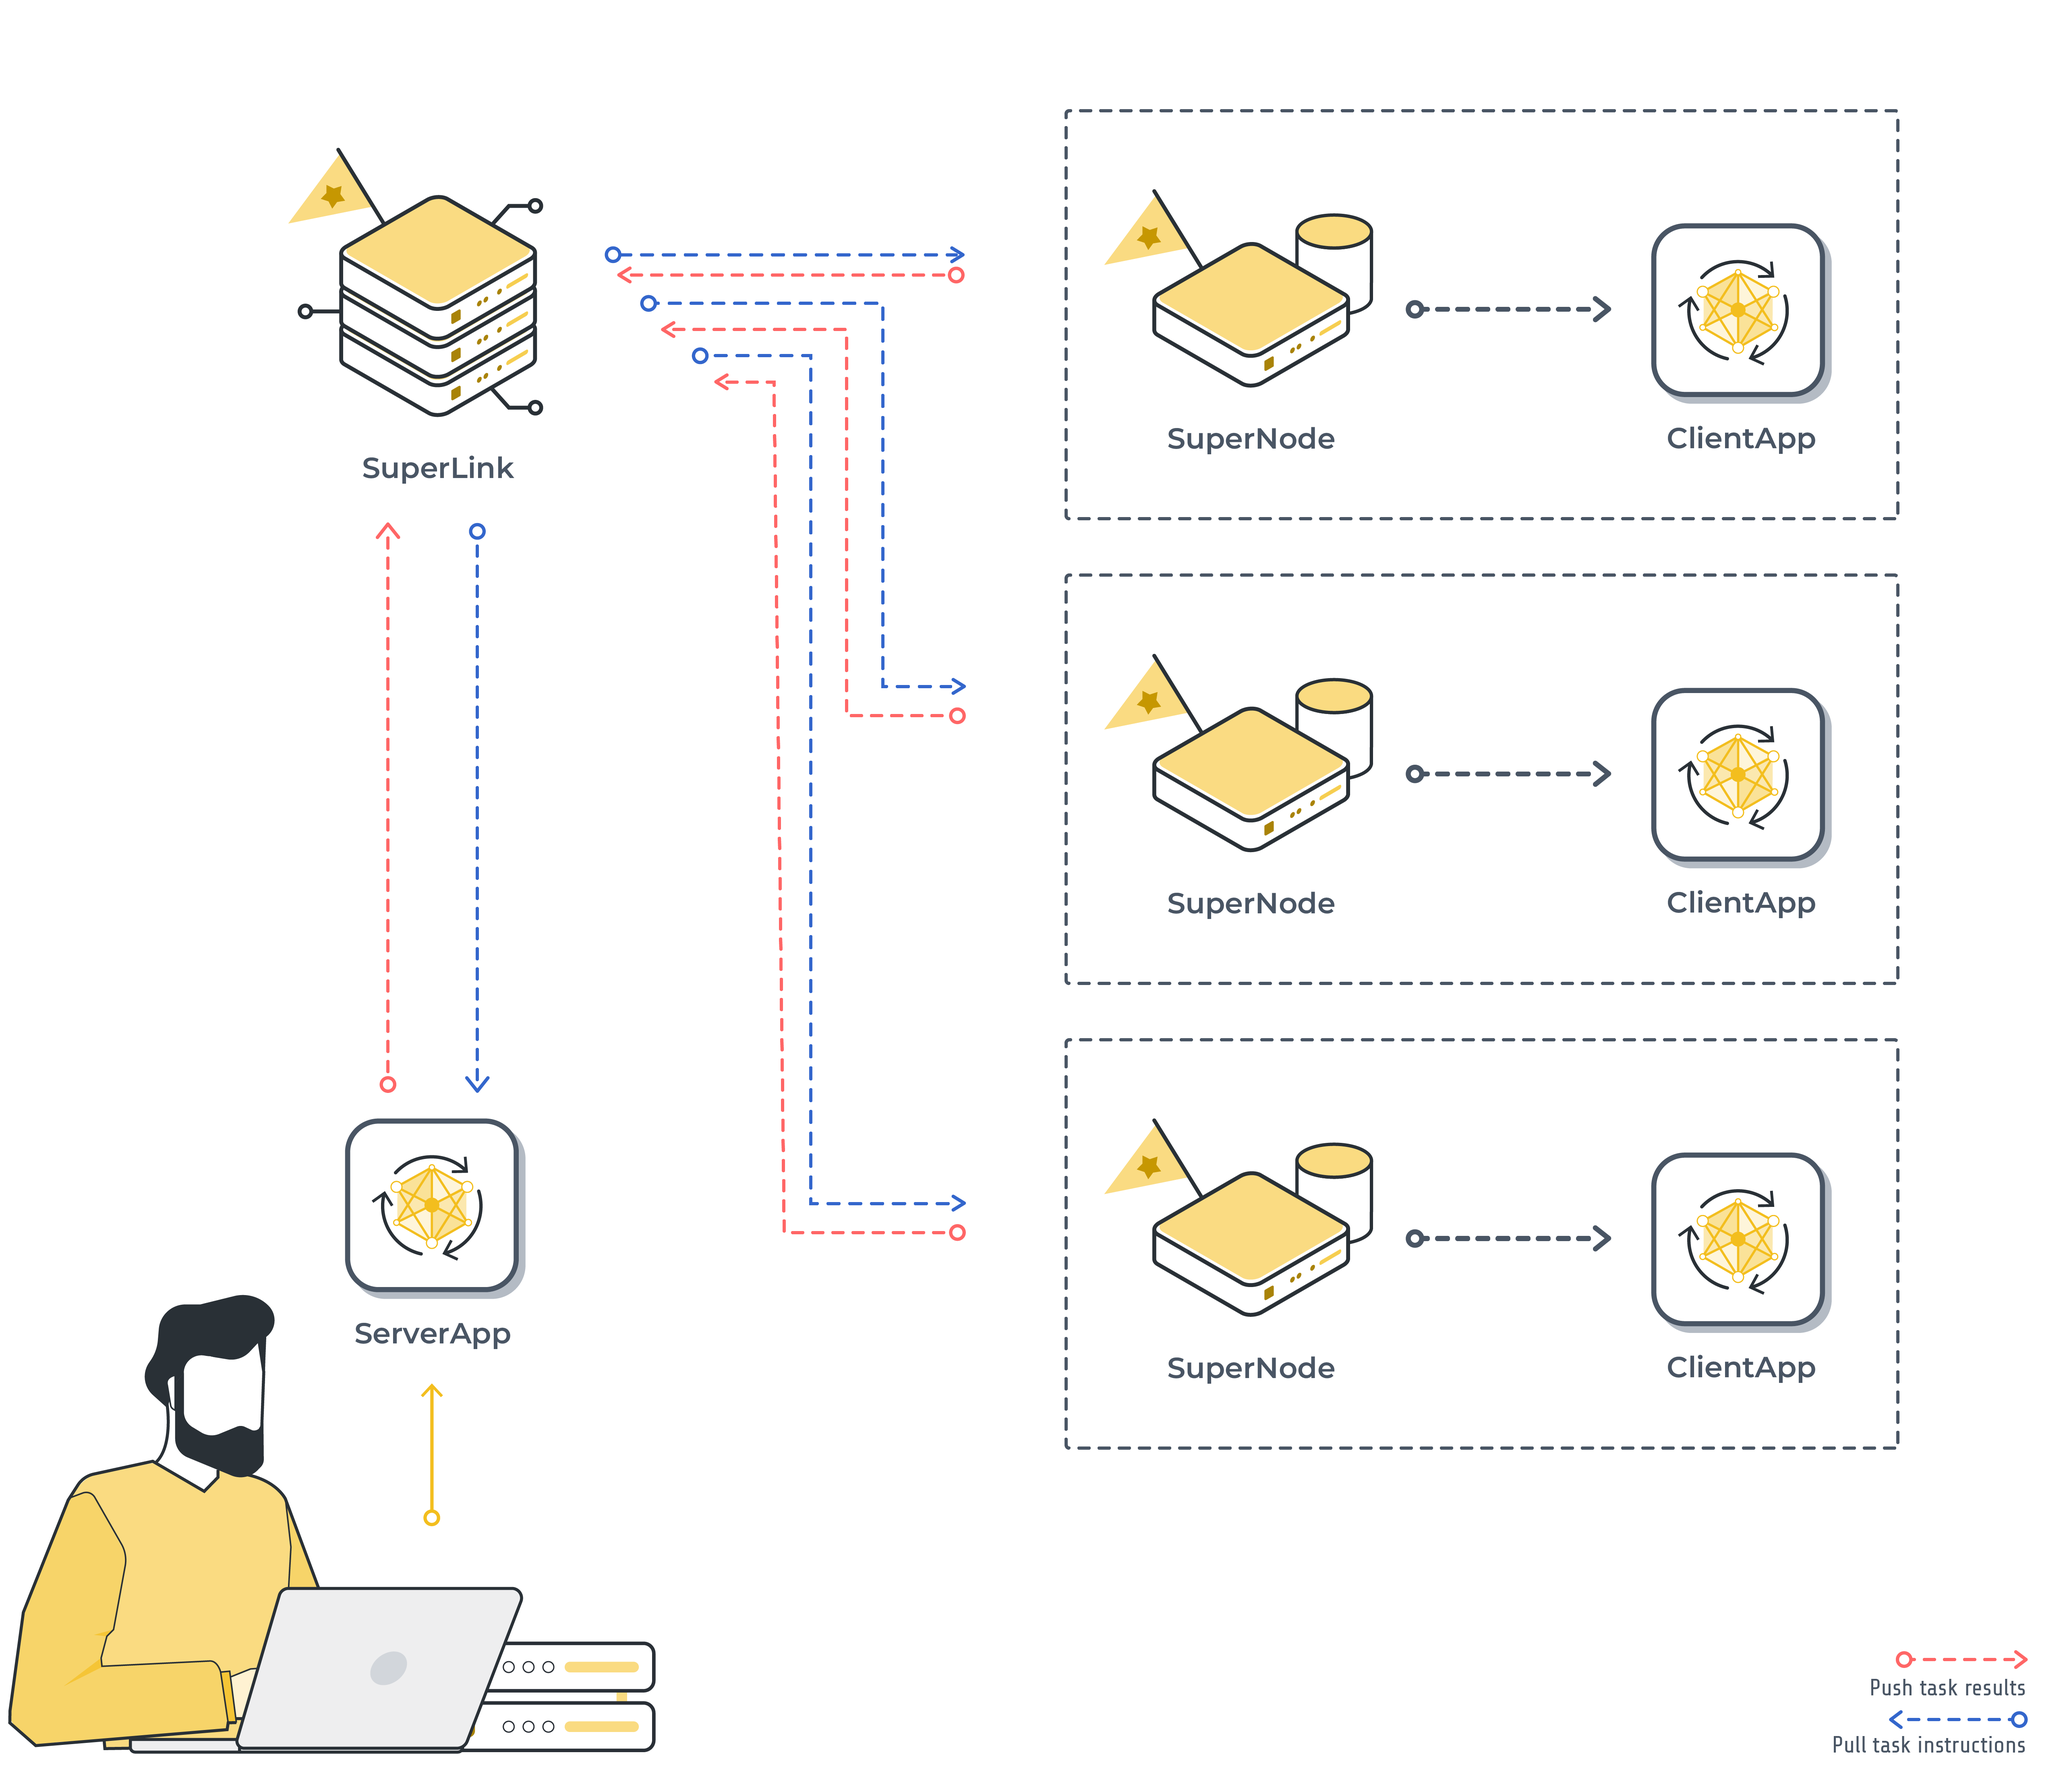
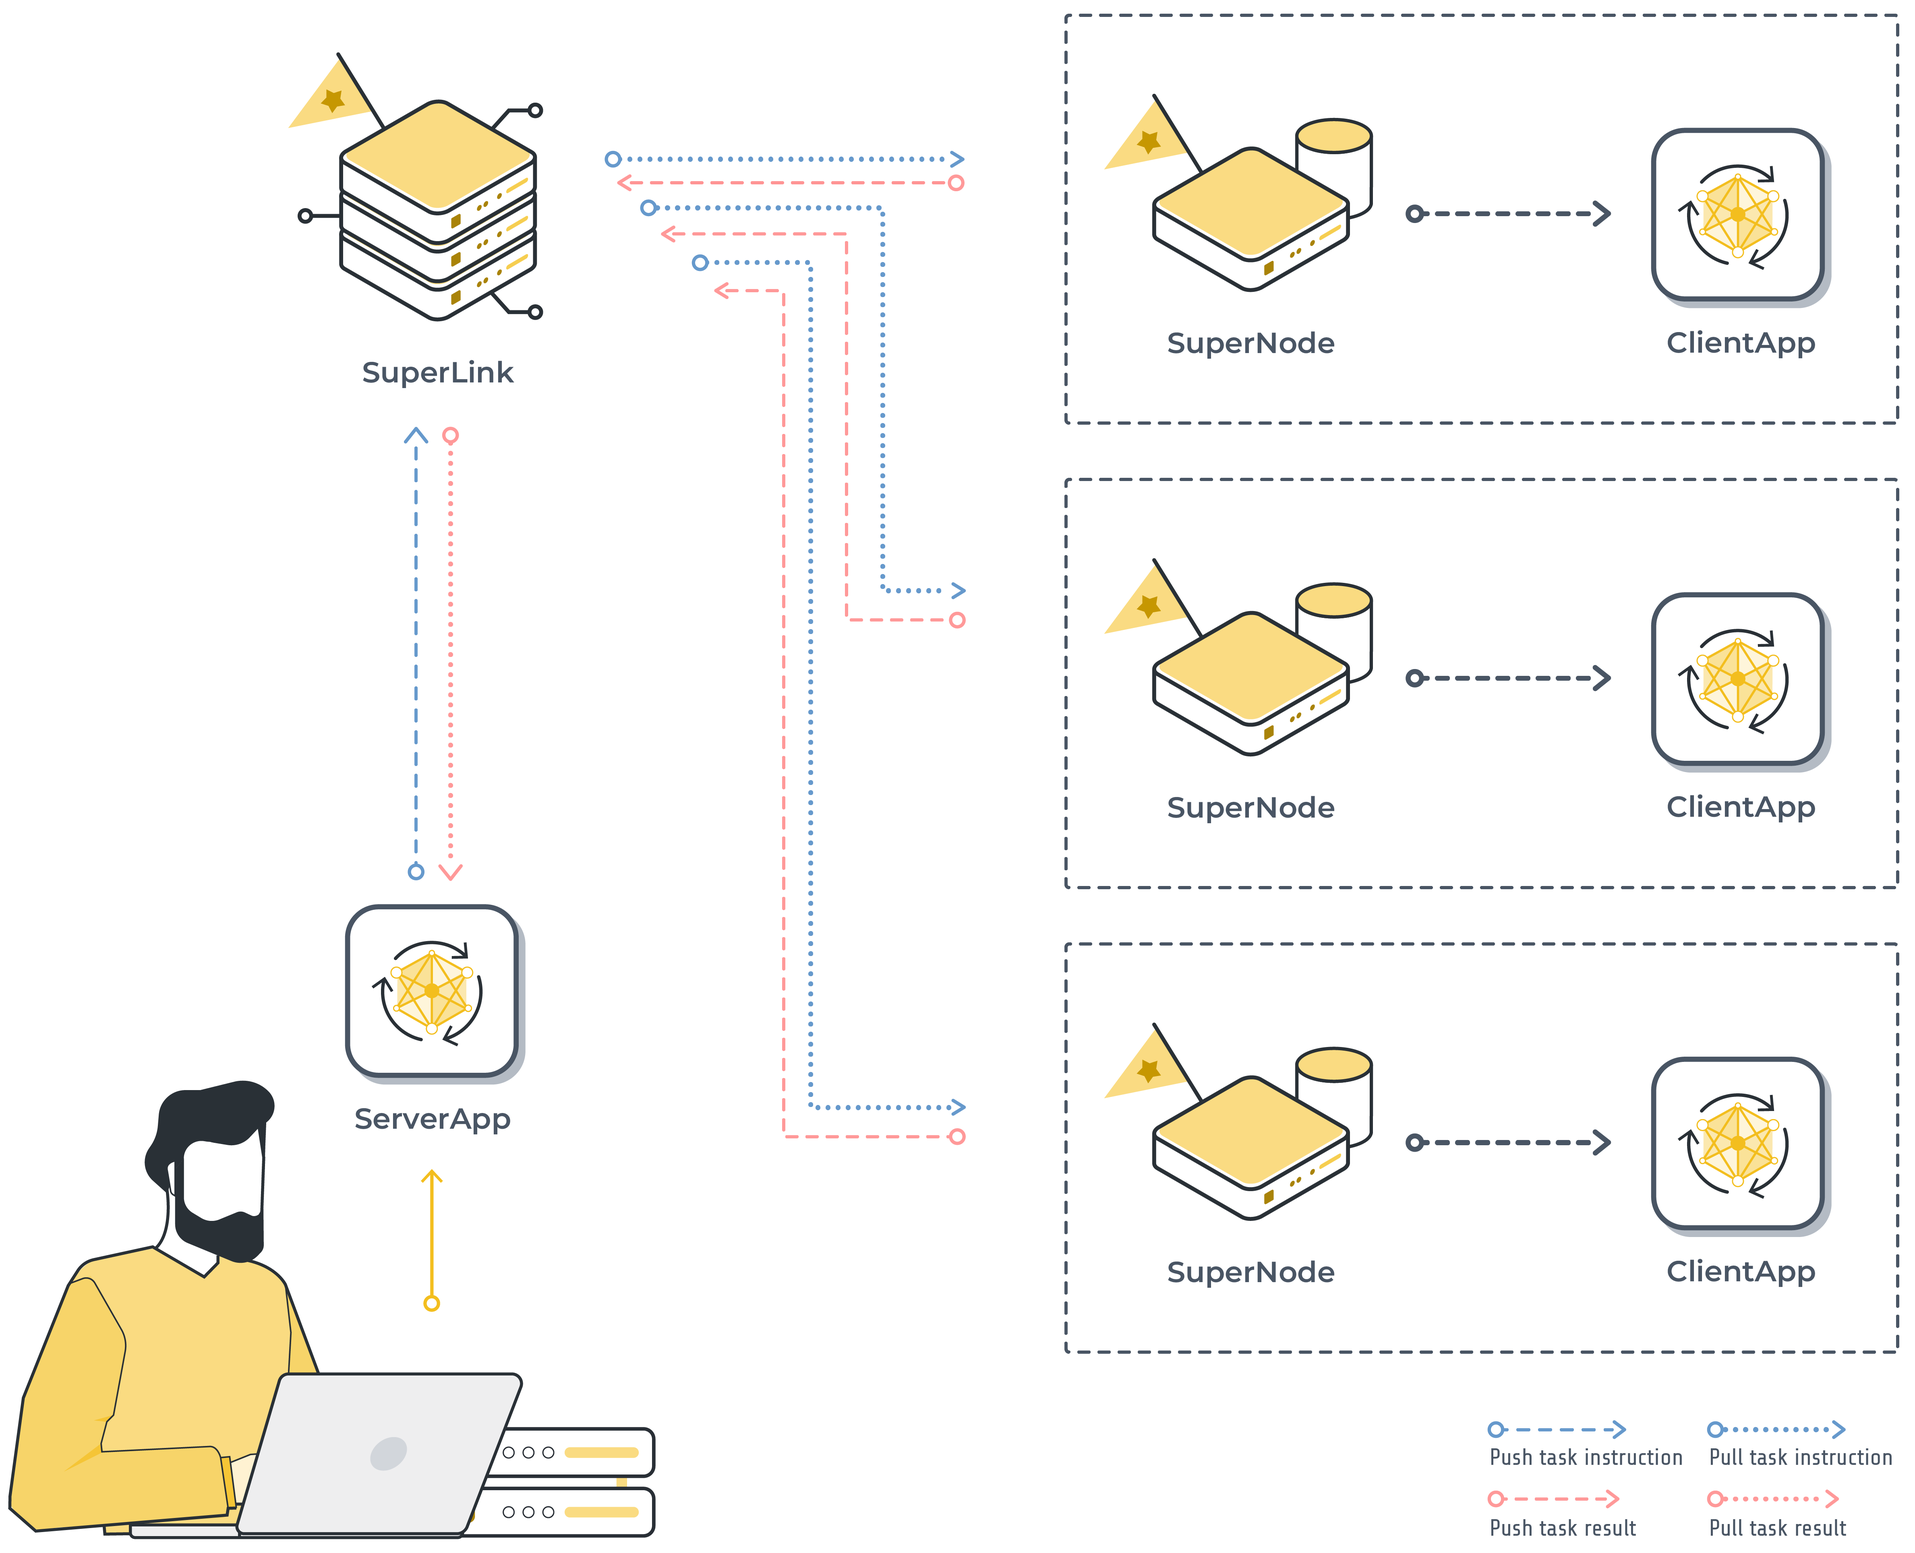
Update graphics

diff --git a/doc/source/explanation-flower-next.rst b/doc/source/explanation-flower-next.rst
@@ -58,7 +58,7 @@ On the application layer, we have the ServerApp and ClientApp. These are essenti
 
 .. figure:: ./_static/flower-infrastructure-applications.png
     :align: center
-    :width: 600
+    :width: 800
     :alt: Flower infrastructure and application layers
 
     Flower application layer consisting of the ServerApp and ClientApps, interacting with the infrastructure layer.
